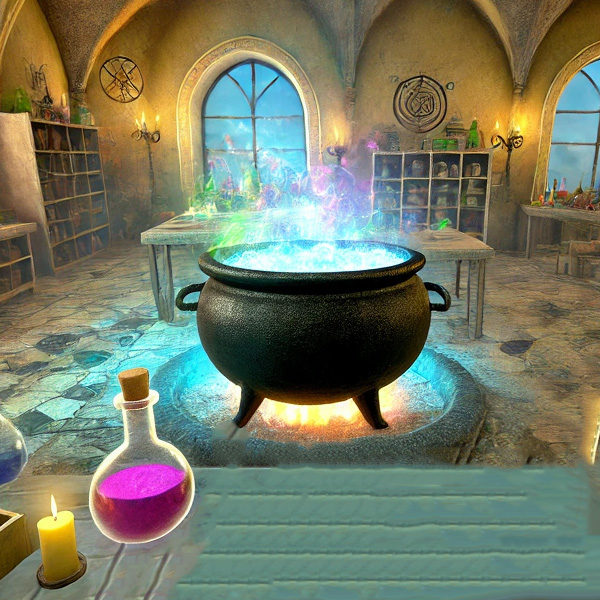
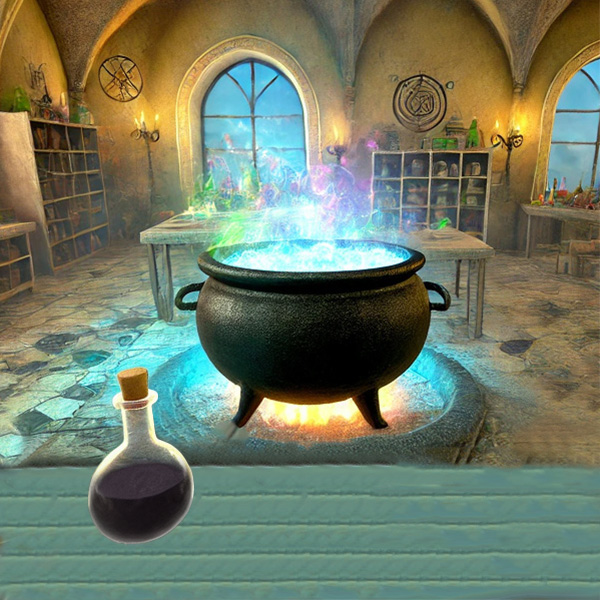
.

diff --git a/script.js b/script.js
@@ -36,14 +36,24 @@
     Pour un remède plus durable, concoctez la légendaire Potion d’Aeloria.
     Pour éradiquer le fléau à jamais, seule la mythique Potion Eternis détient le pouvoir absolu.`, image: ''},
     
-        {index: 12, name: `Fiche incomplète trouvée dans le livre `, image: ''},
+        {index: 12, name: `Fiche incomplète trouvée dans le livre`, image: ''},
         {index: 13, name: `Extrait du Journal du Chef du Village`, image: '', description:`Aujourd'hui, j'ai rencontré la grand-mère Elara. Nous avons discuté de nos traditions et des anciens remèdes. Elle a mentionné une potion spéciale, qui pourrait résoudre les plus grands maux. Ses yeux brillaient d'une lueur inquiète, comme si elle savait quelque chose d'une importance capitale.`},
         {index: 14, name: `Indication 'double des clés'`, image: 'images/machines/balance_drawing.png', description:`Un curieux schéma représentant une balance.`, zoom: 'images/machines/balance_drawing.png'},
         {index: 15, name: 'Clés du laboratoire', image: 'images/inventory/potionKey.jpg', description: 'Les clés du laboratoire.'},
         
         {index: 16, name: '"Duaelinguae Epsile" p.27', image: 'images/uniqueCollectables/dialect1.jpg', description: 'Page trouvée dans un livre de langue.', zoom: 'images/uniqueCollectables/dialect1.jpg'},
         {index: 17, name: '"Le Delte illustré" p.18', image: 'images/uniqueCollectables/dialect2.jpg', description: "Page trouvée dans un livre de langue.", zoom: 'images/uniqueCollectables/dialect2.jpg'},
-        {index: 18, name: '"Le dialiecte pas Bête" p.51', image: 'images/uniqueCollectables/dialect3.jpg', description: 'Page trouvée dans un livre de langue.', zoom: 'images/uniqueCollectables/dialect3.jpg'},
+        {index: 18, name: '"Le dialecte pas Bête" p.51', image: 'images/uniqueCollectables/dialect3.jpg', description: 'Page trouvée dans un livre de langue.', zoom: 'images/uniqueCollectables/dialect3.jpg'},
+
+        {index: 19, name:'Note trouvée chez le minéralogiste', image: '', description: `L'émeraude est moins dense que le topaze.
+Le topaze est plus dense que l'ambre.
+L'ambre n'est pas le plus dense.`},
+        {index: 20, name: 'Potion ultime', description: 'Une potion qui pourrait vaincre le fléau.'},
+
+        {index: 21, name: 'Clés de chez le minéralogiste', image: 'images/inventory/potionKey.jpg', description: 'Les clés de chez le minéralogiste.'},
+        {index: 22, name: "Clés de chez l'herboriste", image: 'images/inventory/potionKey.jpg', description: "Les clés de chez l'herboriste."},
+        
+    
     ];
     
 
@@ -251,15 +261,11 @@
             type: 'div',
             action: function() {
                 if(this.key){
-                    console.log('tu as une clé demandée !');
                     if(!inventory.find(invItem => invItem.name === this.key.name)){
-                        console.log("et tu ne l'as pas !");
                         displayMessage(this.message);
                         return;
                     }
-                    console.log("et tu l'as !");
                 }
-                console.log('change de scène !');
                 changeScene(this.targetScene);
             }
         },
@@ -308,7 +314,15 @@
             action: function(){
                 openWritingMachine();
             }
+        },
+        pink_potion: {
+            src: 'images/uniqueCollectables/pinkPotion.png',
+            action: function() {
+                // document.getElementById(this.id).style.display = 'none';
+                addToInventory(this.item);
+            }
         }
+
     };
 
     const scenes = {
@@ -370,17 +384,31 @@
                     style: 'top: 330px; left: 520px; width: 50px; height: 70px;',
                     targetScene: 'house'
                 },
+                // {
+                //     id: 'door_locked1',
+                //     base: 'message',
+                //     style: 'top: 340px; left: 290px; width: 40px; height: 50px;',
+                //     message: 'Porte verrouillée.'
+                // },
+                // {
+                //     id: 'door_locked2',
+                //     base: 'message',
+                //     style: 'top: 340px; left: 390px; width: 40px; height: 50px;',
+                //     message: 'Porte verrouillée.'
+                // },
                 {
-                    id: 'door_locked1',
-                    base: 'message',
-                    style: 'top: 340px; left: 290px; width: 40px; height: 50px;',
-                    message: 'Porte verrouillée.'
+                    id: 'door-mineralogist',
+                    base: 'door',
+                    style: '',
+                    message: "Porte de chez le minéralogiste verrouillée.",
+                    key: items[21]
                 },
                 {
-                    id: 'door_locked2',
-                    base: 'message',
-                    style: 'top: 340px; left: 390px; width: 40px; height: 50px;',
-                    message: 'Porte verrouillée.'
+                    id: 'door-herborist',
+                    base: 'door',
+                    style: '',
+                    message: "Porte de chez l'herboriste verrouillée.",
+                    key: items[22]
                 },
                 {
                     id: 'door_potion',
@@ -432,7 +460,15 @@
         },
         potion: {
             background: 'images/backgrounds/potionRoom.jpg',
-            objects: []  
+            objects: [
+                {
+                    id: 'pink-potion',
+                    base: 'pink_potion',
+                    // style: 'top: 420px; left: 50px; width: 130px; height: 95px;',
+                    style: 'top: 369px; left: 86px;',
+                    item: items[20]
+                },
+            ]  
         },
         kitchen: {
             background: 'images/backgrounds/kitchen.jpg',
@@ -457,7 +493,44 @@
         },
         cave: {
             background: 'images/backgrounds/cave.jpg',
-            objects: []
+            objects: [
+                {
+                    id: 'green-stone-1',
+                    base: 'collectable',
+                    style: 'top: 370px; left: 40px; width: 60px; height: 50px;',
+                    item: items[4]
+                },
+                {
+                    id: 'green-stone-2',
+                    base: 'collectable',
+                    style: 'top: 490px; left: 140px; width: 80px; height: 60px;',
+                    item: items[4]
+                },
+                {
+                    id: 'orange-stone-1',
+                    base: 'collectable',
+                    style: 'top: 455px; left: 315px; width: 52px; height: 40px;',
+                    item: items[3]
+                },
+                {
+                    id: 'orange-stone-2',
+                    base: 'collectable',
+                    style: 'top: 480px; left: 400px; width: 60px; height: 60px;',
+                    item: items[3]
+                },
+                {
+                    id: 'blue-stone-1',
+                    base: 'collectable',
+                    style: 'top: 535px; left: 35px; width: 65px; height: 55px;',
+                    item: items[5]
+                },
+                {
+                    id: 'blue-stone-2',
+                    base: 'collectable',
+                    style: 'top: 400px; left: 425px; width: 100px; height: 65px;',
+                    item: items[5]
+                },
+            ]
         },
         library: {
             background: 'images/backgrounds/library.jpg',
@@ -695,4 +768,6 @@ function displayMessage(message) {
     // changeScene('kitchen');
     // changeScene('house');
     // changeScene('chief');
+    // changeScene('cave');
+    // changeScene('potion');
 

diff --git a/styles.css b/styles.css
@@ -32,8 +32,8 @@ body {
     width: 50px;
     height: 50px;
     background-color: rgba(255, 255, 255, 1);
-    opacity:0;
-    /* opacity:0.3; */
+    /* opacity:0; */
+    opacity:0.3;
     cursor: pointer;
     /* display: none; */
     border-radius: 10px;
@@ -177,7 +177,7 @@ body {
     border-radius: 5px;
     font-size: 14px;
     opacity: 0;
-    animation: fadeInOut 2s forwards;
+    animation: fadeInOut 4s forwards;
     z-index: 40;
 }
 
@@ -185,7 +185,7 @@ body {
     0%, 100% {
         opacity: 0;
     }
-    50% {
+    20% {
         opacity: 1;
     }
 }
